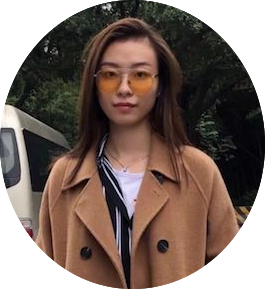
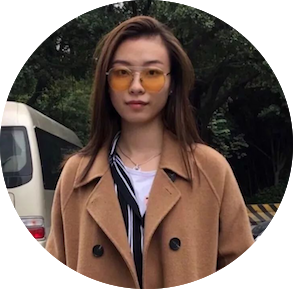
css for instructors

diff --git a/instructors.html b/instructors.html
@@ -28,93 +28,136 @@
       </ul>
     </nav>
     <h2> Meet the Family!</h2>
+
     <figure>
     <!-- Source: Tinguye Tan -->
-    <div class="image_home">
     <img src = "images/group_photo.jpeg" alt = "Group Photo" />
-    </div>
     Source: <cite>Tingyue Tan</cite>
     <figcaption>Group Photo</figcaption>
 </figure>
-<div class="instructors">
-<figure>
+
+
+
     <h3> Co-Presidents</h3>
+<div class="instructors_1">
+    <figure>
+    <div class="president">
     <h4> Aurora Zhang</h4>
+
         <p>College of Agriculture and Life Sciences 2022</p>
-    <!-- Source: Tinguye Tan -->
-    <div class="image_home">
-    <img src = "images/aurora_zhang.jpeg" alt = "Aurora Zhang" />
     </div>
+    <!-- Source: Tinguye Tan -->
+
+    <img src = "images/aurora_zhang.png" alt = "Aurora Zhang" />
+
     <figcaption>Aurora Zhang</figcaption>
 </figure>
-<div class="instructors" >
 <figure>
+    <div class="president">
     <h4> Tina Tian </h4>
-        <p> College of Human Ecology 2022 </p>
+    <p> College of Human Ecology 2022 </p>
+</div>
+
     <!-- Source: Tinguye Tan -->
-    <div class="image_home">
-    <img src = "images/tina_tian.jpeg" alt = "Tina Tian" />
-    </div>
+
+    <img src = "images/tina_tian.png" alt = "Tina Tian" />
+
     <figcaption>Tina Tian</figcaption>
 </figure>
+</div>
+
     <h3> Senior Adivsor</h3>
+<div class="instructors_2">
 <figure>
+    <div class="president">
     <h4> Stephanie Tan</h4>
         <p> College of Architecture Art and Planning 2022</p>
-    <!-- Source: Tinguye Tan -->
-    <div class="image_home">
-    <img src = "images/stephanie_tan.jpeg" alt = "Stephanie Tan" />
     </div>
+    <!-- Source: Tinguye Tan -->
+
+    <img src = "images/stephanie_tan.png" alt = "Stephanie Tan" />
+
     <figcaption>Stephanie Tan</figcaption>
 </figure>
+
+
 <figure>
+    <div class="president">
     <h4> Yanruyu Zhy </h4>
         <p> College of Arts and Sciences 2020 </p>
-    <!-- Source: Tinguye Tan -->
-    <div class="image_home">
-    <img src = "images/yanruyu_zhy.jpeg" alt = "Yanruyu Zhy" />
     </div>
+    <!-- Source: Tinguye Tan -->
+
+    <img src = "images/yanruyu_zhy.png" alt = "Yanruyu Zhy" />
+
     <figcaption>Yanruyu Zhy</figcaption>
 </figure>
-    <h4> Melanie Li</h4>
 <figure>
+    <div class="president">
+    <h4> Melanie Li</h4>
         <p> College of Ariculture and Life Sciences 2020 </p>
-    <!-- Source: Tinguye Tan -->
-    <div class="image_home">
-    <img src = "images/melanie_li.jpeg" alt = "Melanie Li" />
     </div>
+    <!-- Source: Tinguye Tan -->
+
+    <img src = "images/melanie_li.png" alt = "Melanie Li" />
+
     <figcaption>Melanie Li</figcaption>
 </figure>
+</div>
+
     <h3> Publicity </h3>
+    <div class="instructors_2">
 <figure>
+    <div class="president">
     <h4> Wenyi Guo</h4>
         <p> College of Human Ecology 2022 </p>
-    <!-- Source: Tinguye Tan -->
-    <div class="image_home">
-    <img src = "images/wenyi_guo.jpeg" alt = "Wenyi Guo" />
     </div>
+    <!-- Source: Tinguye Tan -->
+
+    <img src = "images/wenyi_guo.png" alt = "Wenyi Guo" />
     <figcaption>Wenyi Guo</figcaption>
 </figure>
+</div>
     <h3> Treasurer </h3>
+    <div class="instructors_2">
 <figure>
-    <h4> Yoyo Ma </h4>
+    <div class="president">
+        <h4> Yoyo Ma </h4>
         <p> College of Arts and Sciences 2022 </p>
-    <!-- Source: Tinguye Tan -->
-    <div class="image_home">
-    <img src = "images/yoyo_ma.png" alt = "Yoyo Ma" />
     </div>
+    <!-- Source: Tinguye Tan -->
+    <img src = "images/yoyo_ma.png" alt = "Yoyo Ma" />
+
     <figcaption>Yoyo Ma</figcaption>
 </figure>
+</div>
     <h3> Logistics </h3>
-<figure>
+
+
+    <div class="instructors_2">
+        <figure>
+        <div class="president">
     <h4> Lisa Li </h4>
         <p> College of Agriculture and Life Sciences 2021 </p>
-    <!-- Source: Tinguye Tan -->
-    <div class="image_home">
-    <img src = "images/lisa_li.jpeg" alt = "Lisa Li" />
     </div>
+    <!-- Source: Tinguye Tan -->
+    <img src = "images/lisa_li.png" alt = "Lisa Li" />
+
     <figcaption>Lisa Li</figcaption>
 </figure>
+
+<figure>
+    <div class="president">
+        <h4> Canna Zhang </h4>
+        <p> College of Architecture Art & Planning 2022 </p>
+    </div>
+    <!-- Source: Tinguye Tan -->
+    <img src = "images/canna_zhang.png" alt = "Canna Zhang" />
+
+    <figcaption>Canna Zhang</figcaption>
+</figure>
+</div>
+
 
 <h5> Contact Us </h5>
 <div class="contact">
@@ -125,5 +168,6 @@
 <p> <em> Co-president: Jiali Liu</em></p>
 <address><a href="jl2685@cornell.edu">jl2685@cornell.edu</a></address>
 </div>
+
  </body>
 </html>

diff --git a/styles/theme.css b/styles/theme.css
@@ -68,7 +68,7 @@ h3 {
     color: white;
     text-align: center;
     text-decoration:black underline;
-    font-size: 25px;
+    font-size: 30px;
     font-family:garamond;
     padding: 0;
     background-color:#49989c;
@@ -94,11 +94,69 @@ li {
     text-align:center;
     font-size: 15px;
     padding:0;
+
 }
+.instructors_1{
+    display:flex;
+    flex-direction:row;
+    flex-wrap: nowrap;
+    padding: 0px;
+    margin:0;
+    align-items: center;
+}
+
+.instructors_1 p{
+    text-align:center;
+    font-size: 12px;
+    padding:0;
+    align-items: center;
+
+}
+.instructors_1 h4{
+    text-align: center;
+    font-size: 30px;
+    justify-content: center;
+    display:flex;
+    color:#f8f8f8;
+    background-color: black;
+
+}
+.instructors_2 p{
+    text-align:center;
+    font-size: 12px;
+    padding:0;
+    align-items: center;
+
+}
+.instructors_2 h4{
+    text-align: center;
+    font-size: 30px;
+    justify-content: center;
+    display:flex;
+    color:#f8f8f8;
+    background-color: black;
+}
+
+.president p{
+    display:flex;
+    flex-direction:column;
+    text-align:center;
+    justify-content: center;
+
+}
+
 em{
     color:black;
     font-size:15px;
     padding:0;
+}
+.instructors_2 {
+        display:flex;
+        flex-direction:row;
+        flex-wrap:nowrap;
+        text-align: center;
+        text-align-last: left;
+
 }
 figcaption {
   text-align: center;
